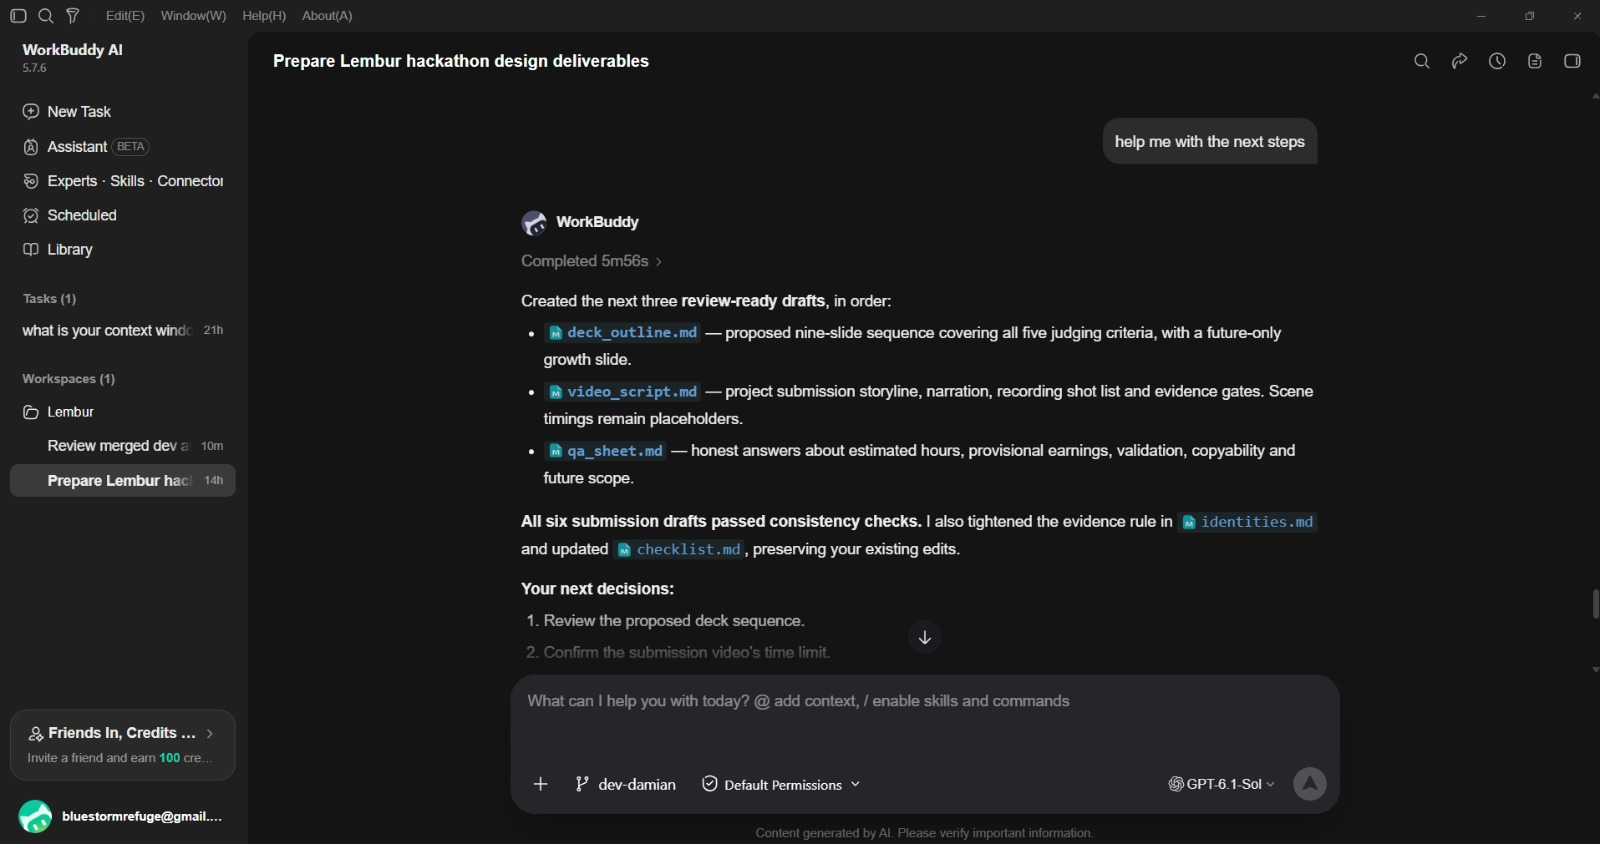
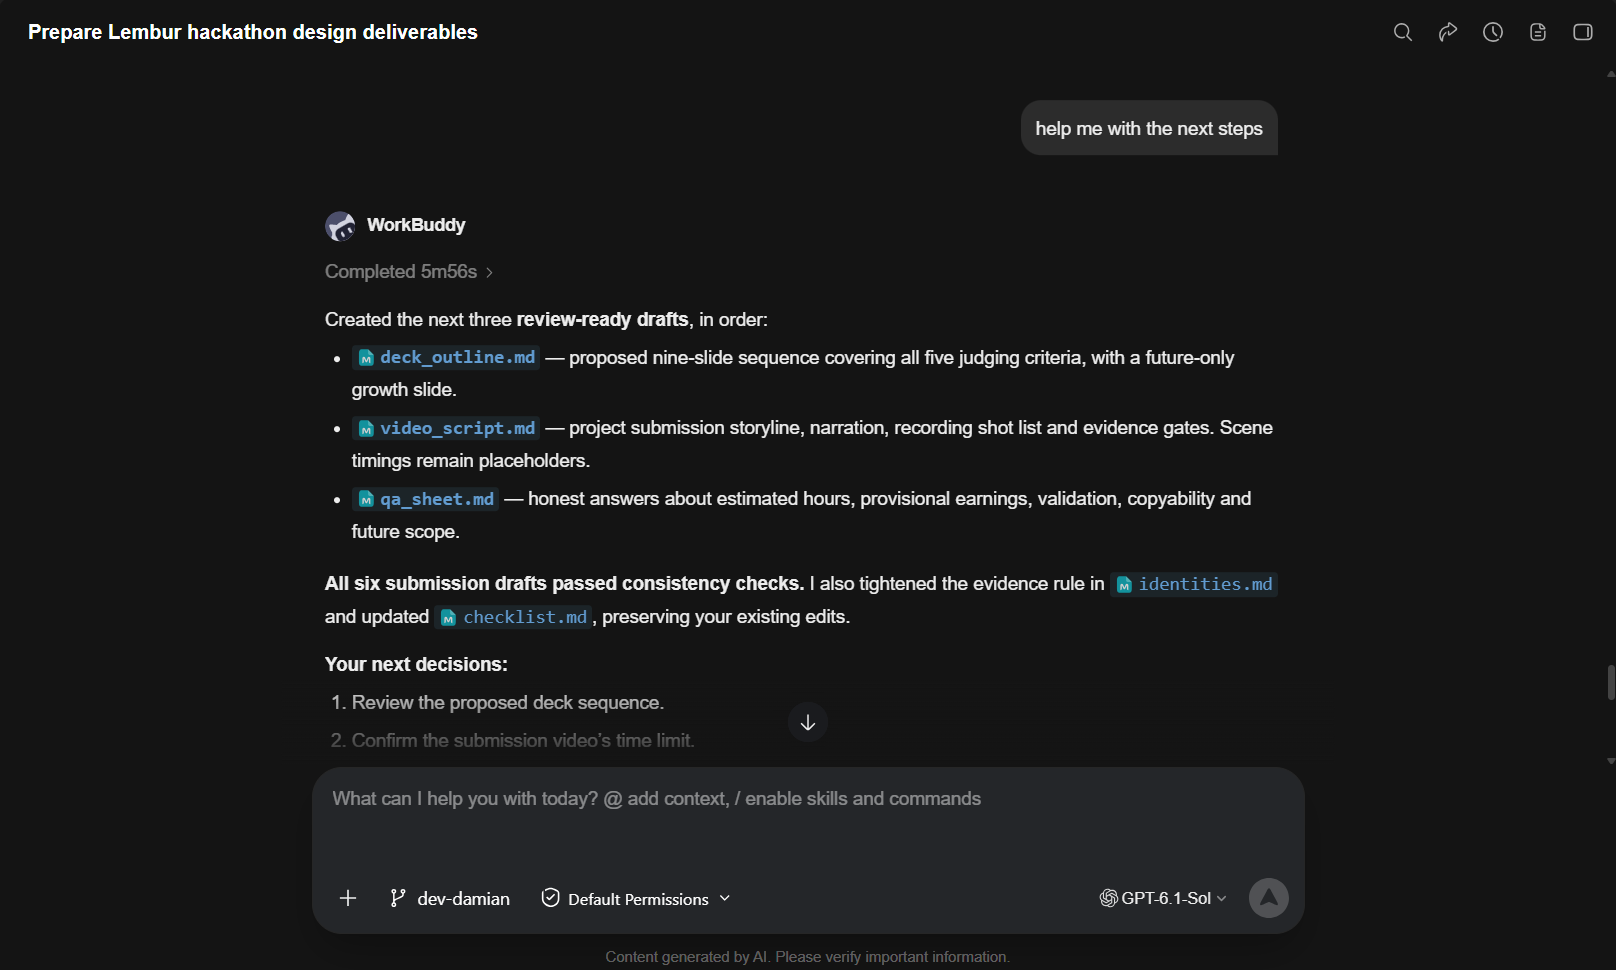
Fill the video script with the verified run values

diff --git a/submission/video_script.md b/submission/video_script.md
@@ -9,9 +9,9 @@
 - All scene durations below are placeholders. PLAN section 17 suggests about thirty seconds for Week 0; this is guidance, not the confirmed submission time limit.
 - Aisyah is the fictional student in the merged dataset, subject to Sharon's story sign-off. Use `{approved_persona_name}` in narration until then.
 - There is no scheduled run. A night starts when the student sends her message, and the morning message arrives when the night finishes.
-- The tool layer and the Telegram bot are built and merged; the model module, the runner and the prompts are not built yet (PLAN section 13). Scenes use real outputs only after the proofs in PLAN section 12 are recorded.
-- Every business figure, recommendation, ruling and runtime claim stays a named placeholder until supported by verified outputs.
-- Narration that describes successful execution is usable only after its scene's evidence gate passes. A scripted claim is not execution evidence.
+- The tool layer, the Telegram bot, the model module, the runner and the prompts are built and merged (PLAN section 13). The demo week replays through the runner with the real models and the comparator prints PASS (PLAN section 12, proof 4), so the figures below are real run outputs. Proof 3's live chat half is not yet recorded: the payslip file has not yet arrived in the chat, only in `workspace/payslips/2026-W41.html`.
+- Every business figure below is copied from the recorded run of 11 October 08:10, which passed the comparator. `{approved_persona_name}` stays a placeholder until Sharon signs the persona off.
+- Narration that describes successful execution is usable only after its scene's evidence gate passes. A scripted claim is not execution evidence. The one scene that still needs a live recording is scene 3 and scene 5's chat delivery (proof 3).
 - Demo data only. Keep the expected ledger and answer key out of the production agents' inputs.
 
 ## Scene 1: Week zero, a starting plan
@@ -38,7 +38,7 @@
 ## Scene 3: Before bed, message and messy documents
 
 - Duration: `{bedtime_scene_duration}`.
-- Shot: `{verified_nightly_message}` and its dated demo inbox batch, sent in the chat.
+- Shot: `{verified_nightly_message}` and its dated demo inbox batch, sent in the chat. The real messages and their dated files are in `data/demo/messages.md`; for example Monday 2026-10-05 is four files (two order screenshots, a bead receipt and its duplicate) with the message “Two Instagram keychain orders today, Dana and Mira…”.
 - Proposed narration: “The orders and receipts are scattered. Before bed, I send one message to my bot and leave the documents with it.”
 - Show actual synthetic receipts, order screenshots and the bank statement only on their documented intake dates.
 - The bank statement arrives on Sunday; do not depict it arriving before its batch. Cash orders in the message are individual orders, not extra screenshots.
@@ -59,8 +59,9 @@
   - Payroll hours and deterministic numbers outputs.
   - Payslip-day recommendations, Auditor report and ruling, then the unsent drafts, then the generated payslip. The drafts come before the payslip (design section 6.1).
 - Proposed narration: “First the plan for tonight is written. Then the agents read and review, and ask the tools to do the matching and the calculations. Uncertainty is flagged, not guessed.”
-- Include actual evidence of the duplicate, missing receipt, mismatch and unreadable amount; do not prefill pass labels.
-- Capture `{verified_correction_history}`: the correction is applied once, effective from its recorded date, with earlier sales retaining the earlier assumption.
+- Include actual evidence of the duplicate, missing receipt, mismatch and unreadable amount; do not prefill pass labels. The recorded run shows: the duplicate filed as T0004, the blurred thread receipt T0012 with an empty amount on 2026-10-08, a keychain sale amount mismatch T0019, and the missing bead top-up T0020 on 2026-10-11.
+- Capture the correction history: keychains P01 `minutes_per_unit` 20 to 15, effective 2026-10-07, source `message.2026-10-07`, applied once with earlier sales keeping the 20-minute assumption (`workspace/plan/plan_change_log.csv`).
+- Capture the night plan from `workspace/audit/2026-W41/plan_2026-10-11.md`: each step with its “why tonight needs it” and its outcome, including the two steps the rules added back (growth recommendation, drafts).
 - Evidence gates: receipt reading is proof 1, one real night is proof 2 and the whole week is proof 4 (PLAN section 12). The files are CSV. Verify saved correction history against the approved key, not only the final total.
 - Label any edited acceleration “Time-lapse”. Do not claim a speed-up factor, runtime or parallel work without evidence. Nothing here is scheduled.
 - Sources: PLAN sections 10, 12 and 17; DESIGN sections 4 to 6.
@@ -78,21 +79,21 @@
 ## Scene 6: The payslip reveal and the decision
 
 - Duration: `{payslip_and_meeting_scene_duration}`.
-- Shot: the verified payslip, which arrives as an HTML file in the chat (a PDF is optional and not built), preserving the fixed ten section order of design section 7.
-- Headline: “RM {hourly_rate} per hour”. Supporting values: “RM {take_home}” and “{total_hours} hours”.
+- Shot: the verified payslip, which arrives as an HTML file in the chat (a PDF is optional and not built), preserving the fixed ten section order of design section 7. The file is `workspace/payslips/2026-W41.html`.
+- Headline: “RM 2.53 per hour”. Supporting values: “RM 39.50” and “15.6 hours”.
 - Proposed narration: “This is what my business paid for my time, not just what came in.”
-- Visible caveat: “Provisional earnings: an expense amount is unknown.”
+- Visible caveat: “Provisional earnings: an expense amount is unknown.” (run detail: transaction T0012, the blurred thread receipt, has an empty amount; the Auditor's ruling notes take-home and hourly are provisional because of it.)
 - Proposed narration: “An unreadable expense is still missing, so these earnings may be lower when it is confirmed. The hours use assumptions, corrections and stated event time, not a complete timesheet.”
-- Product shot: `{verified_product_results}` with a loss marker only where the tool establishes a loss.
+- Product shot: Beaded keychain (P01) 11 units sold, revenue RM54.50, profit −RM10.50, −RM2.80 per hour, `loses_money: true`; Beaded bracelet (P02) 3 units sold, revenue RM54.00, profit RM32.00, RM16.99 per hour. Show the loss marker on the keychain only, where the tool establishes it.
 - Explain through caption or narration: product profit uses plan costs and direct production/fulfilment time; take home uses ledger payments and the whole week's time. Product profits do not add up to take home.
-- Plan-comparison shot: `{target_hourly_rate}` against `{hourly_rate}`, and `{planned_margin_percent}` against `{actual_margin_percent}`. Do not relabel the target as a generated prediction.
+- Plan-comparison shot: RM12.00 target against RM2.53 actual, and 40 percent planned margin against 36 percent actual. Do not relabel the target as a generated prediction.
 - Debate shot, following `submission/board_meeting_layout.md`:
-  - Payroll: `{actual_payroll_recommendation}` with `{payroll_cited_evidence}`.
-  - Growth coach: `{actual_growth_recommendation}` with `{growth_cited_evidence}`.
-  - Auditor: `{actual_ruling}` and `{ruling_reason_with_citations}`.
-- Leave agent dialogue unfilled until actual files exist. The answer key's expected ruling direction is not an actual ruling.
+  - Payroll: adjust keychain pricing or materials to stop a −RM2.80 per hour loss; focus production on the bracelet at RM16.99 per hour; reallocate part of the 10.0 shared hours toward productive tasks (cited: profit_per_hour_rm −2.80 and 16.99, shared_hours 10.0, hourly_rate_rm 2.53, from numbers.json).
+  - Growth coach: pull back from the loss-making keychain (−RM10.50); promote the profitable bracelet (RM32.00); re-evaluate the Instagram channel cost (channel_costs_rm RM32.00) (cited: profit_rm −10.50 and 32.00, channel_costs_rm 32.00, from numbers.json).
+  - Auditor: all six recommendations upheld, no conflicts between them (cited: profit_per_hour_rm −2.80 and 16.99, profit_rm −10.50 and 32.00, shared_hours 10.0, hourly_rate_rm 2.53, channel_costs_rm 32.00). The week closes pending the two receipt issues.
+- Agent dialogue above is the actual recorded run output, not the answer key's expected direction.
 - Proposed narration: “One colleague argues for hourly earnings, another for revenue and sales. The Auditor checks the evidence and rules.”
-- Raise-plan shot: `{upheld_recommendation}` linked to `{draft_reference}`, followed by the complete needs-review list.
+- Raise-plan shot: the upheld recommendation links to its draft `approvals/2026-W41/01_instagram_post.md` (“Serves Recommendation 2. Hey friends! Our Beaded bracelet is a hit…”), followed by the complete needs-review list: the 15-minute keychain correction (2026-10-07), the blurred thread receipt with a missing amount (2026-10-08), and the missing bead top-up receipt (2026-10-11).
 - Evidence gate: actual ledger statuses, amounts, minutes, source labels, review items and product results must match Sharon's approved key. Ruling direction must be checked, not copied into the run.
 - No precise raise promise or future demand claim: the raise projection is an agreed design, not built.
 - Sources: PLAN sections 3, 10 and 17; DESIGN sections 4.2, 4.3, 5, 7 and 8; draft answer key limitations.
@@ -100,10 +101,10 @@
 ## Scene 7: Approval by reply, then class
 
 - Duration: `{approval_and_close_scene_duration}`.
-- Shot: `{verified_individual_approval_evidence}` for each draft shown, followed by the student going to class.
+- Shot: `{verified_individual_approval_evidence}` for each draft shown, followed by the student going to class. Only one draft exists in the recorded run: `approvals/2026-W41/01_instagram_post.md`, serving Recommendation 2 (the bracelet).
 - Proposed narration: “I approve each draft with a reply. Lembur posts nothing, I send it myself.”
 - Do not use one blanket approval for all drafts. Do not add an interaction control that the confirmed implementation does not support.
-- Show no posting or sending by Lembur. End at the reply "approve N" in the chat, the bot's confirmation, and the draft moved to `approvals/<week>/approved/`.
+- Show no posting or sending by Lembur. End at the reply "approve 1" in the chat, the bot's confirmation, and the draft moved to `approvals/2026-W41/approved/`. (The run left the draft pending; the move to `approved/` needs the recorded approval reply.)
 - Closing line: “Kau tidur, kami lembur. You sleep, we do the overtime.”
 - Approval is by reply (design section 6.1). Damian approves the final closing treatment, and decides whether scene 8 sits before this closing line or after the story.
 - Sources: PLAN sections 2 and 17; DESIGN sections 5.1 and 6.1.
